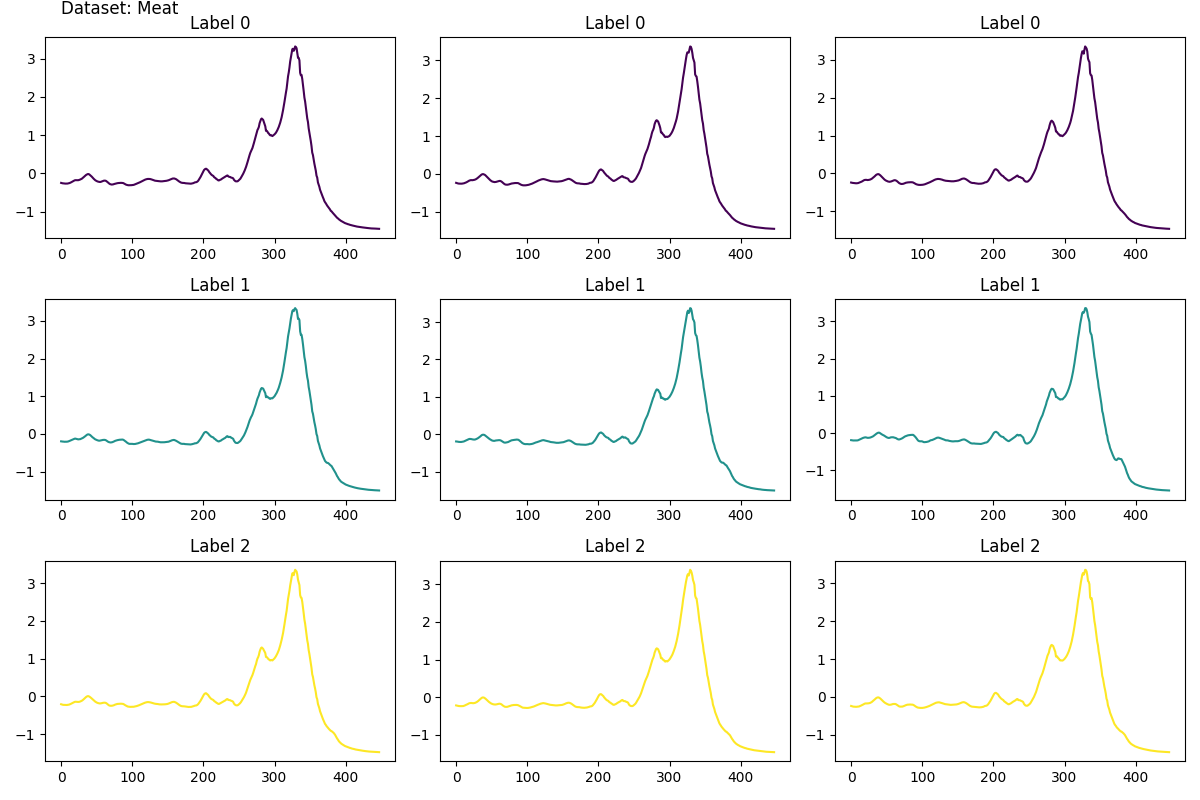
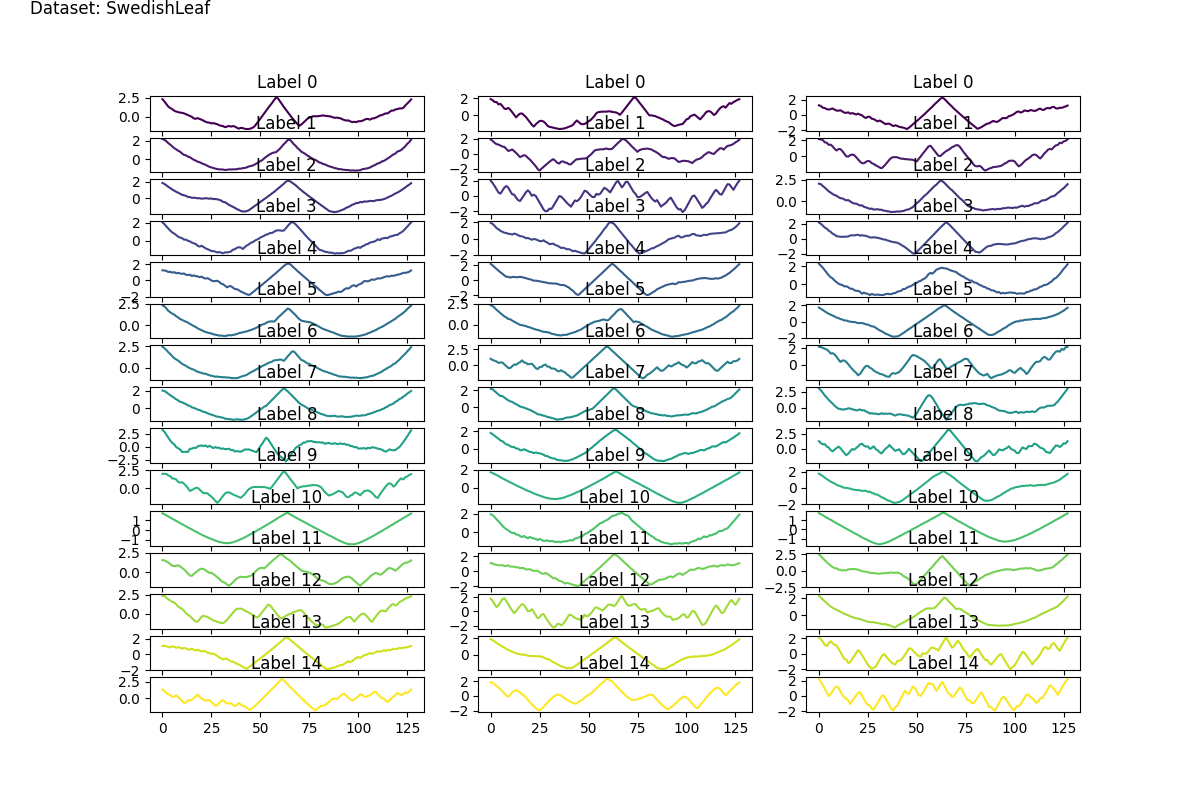
Randomized plotting.py

diff --git a/plotting.py b/plotting.py
@@ -2,6 +2,7 @@ from src.utils import load_yaml_param_settings
 from src.preprocessing.preprocess_ucr import UCRDatasetImporter
 import matplotlib.pyplot as plt
 import numpy as np
+import random
 
 
 
@@ -13,20 +14,36 @@ def sample_plot_classes(data, labels, name):
     nr_unique_labels = len(np.unique(labels))
 
     # Define a colormap based on the number of unique labels
-    colormap = plt.cm.get_cmap('viridis', nr_unique_labels)  # You can choose a different colormap
+    colormap = plt.cm.get_cmap('viridis', nr_unique_labels)  
 
     figure = plt.figure(figsize=(12, 8))
     cols, rows = 3, nr_unique_labels
 
     for i, label in enumerate(np.unique(labels)):
         data_indices = np.where(labels == label)[0]
-        for j in range(1, cols + 1):
-            if j <= len(data_indices):
-                sample_idx = data_indices[j - 1]
-                X = data[sample_idx]
-                figure.add_subplot(rows, cols, i * cols + j)
-                plt.title(f'Label {label}')
-                plt.plot(X, color=colormap(label / (nr_unique_labels - 1)))  # Normalize label for colormap
+        nr_of_samples = np.min([cols+1, len(data_indices)])
+        sample_idx = random.sample(sorted(data_indices), nr_of_samples)
+        for j in range(1, nr_of_samples):
+            # sample_idx = data_indices[j - 1]
+            X = data[sample_idx[j]]
+            figure.add_subplot(rows, cols, i * cols + j)
+            plt.title(f'Label {label}')
+            plt.plot(X, color=colormap(label / (nr_unique_labels - 1)))  # Normalize label for colormap
+
+    """
+    Old code in case the above is buggy, dont think it is:))
+    """
+    # for i, label in enumerate(np.unique(labels)):
+    #     data_indices = np.where(labels == label)[0]
+    #     nr_of_samples <- np.min([cols+1, len(data_indices)])
+
+    #     for j in range(1, cols + 1):
+    #         if j <= len(data_indices):
+    #             sample_idx = data_indices[j - 1]
+    #             X = data[sample_idx]
+    #             figure.add_subplot(rows, cols, i * cols + j)
+    #             plt.title(f'Label {label}')
+    #             plt.plot(X, color=colormap(label / (nr_unique_labels - 1)))  # Normalize label for colormap
 
     plt.tight_layout()
     plt.suptitle(f'Dataset: {name}',x = 0.1, y = 1)
@@ -42,8 +59,12 @@ if __name__ == "__main__":
     dataset_importer = UCRDatasetImporter(**config['dataset'])
 
     training_data = dataset_importer.X_train
+    test_data = dataset_importer.X_test
+
     labels = dataset_importer.Y_train
     name = config['dataset']['dataset_name']
 
-    sample_plot_classes(training_data, labels, name)
+    # sample_plot_classes(training_data, labels, name)
+    sample_plot_classes(test_data, labels, name)
+    
 
